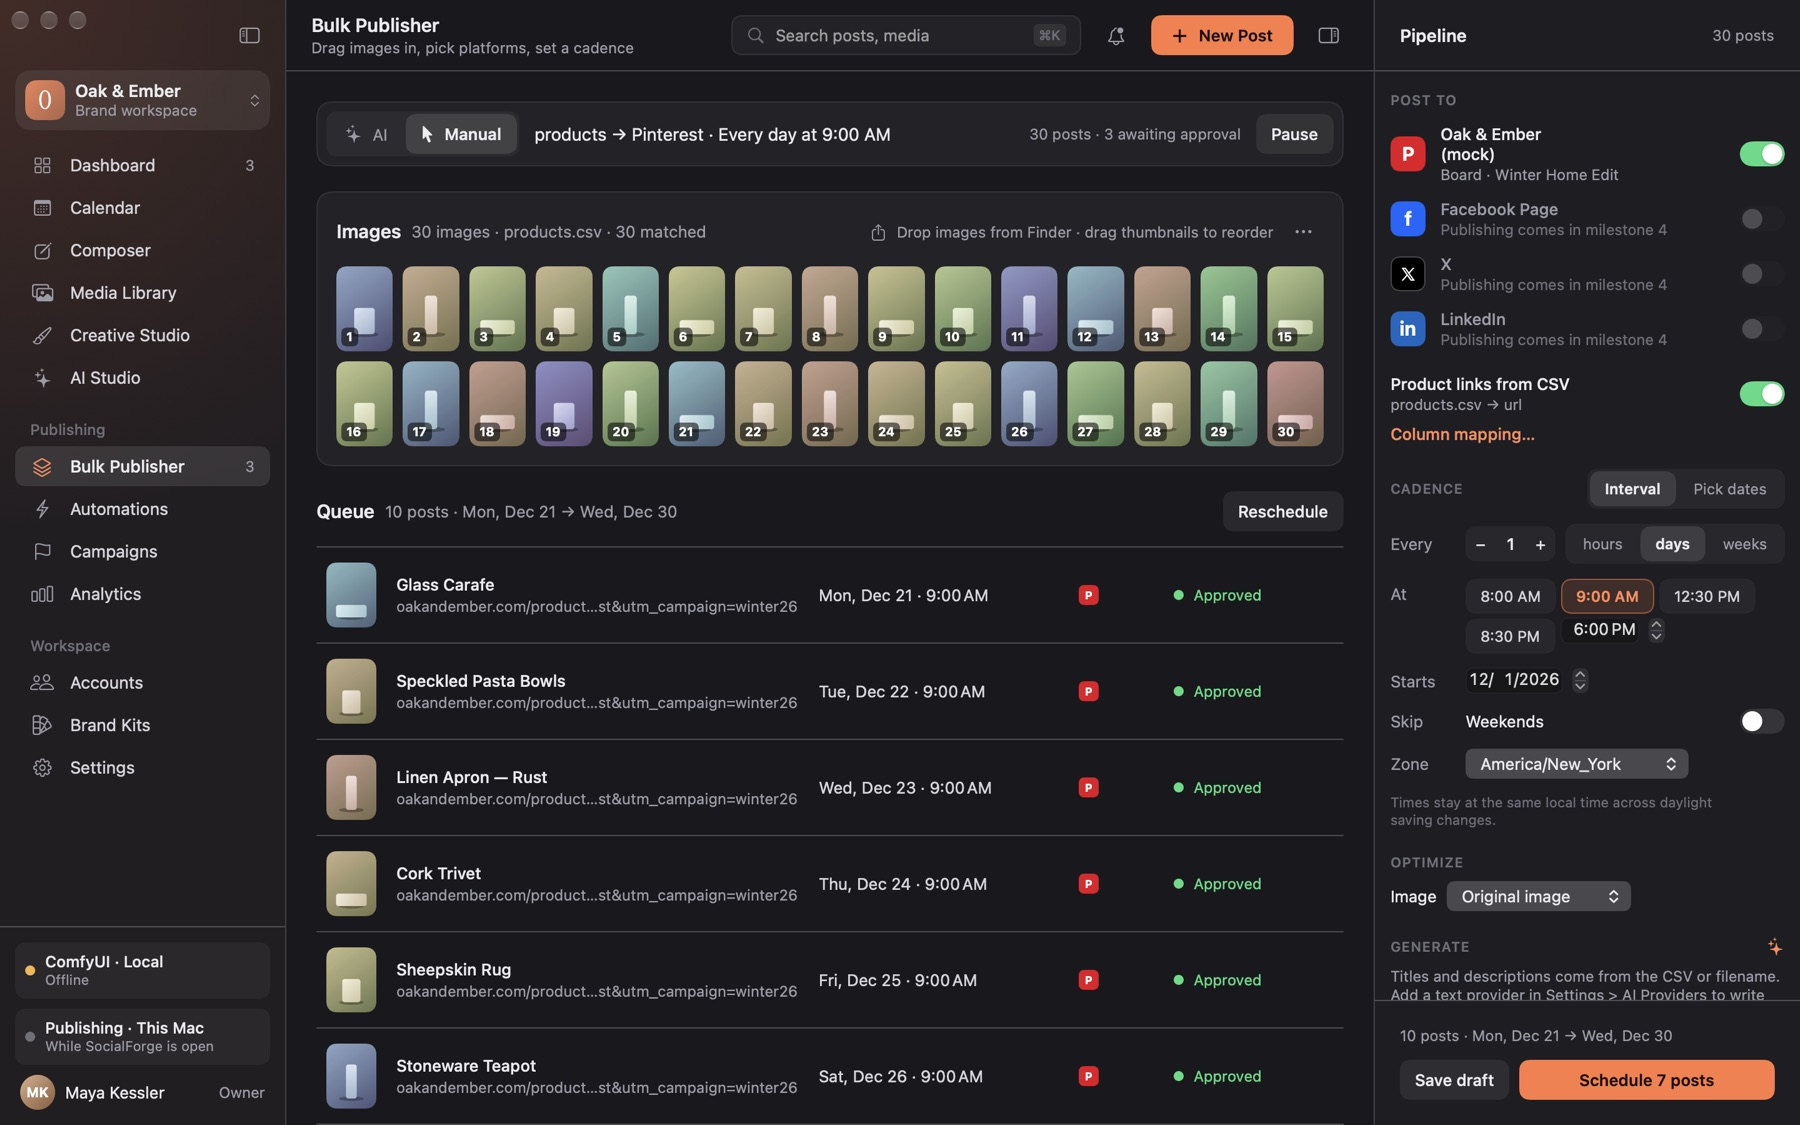
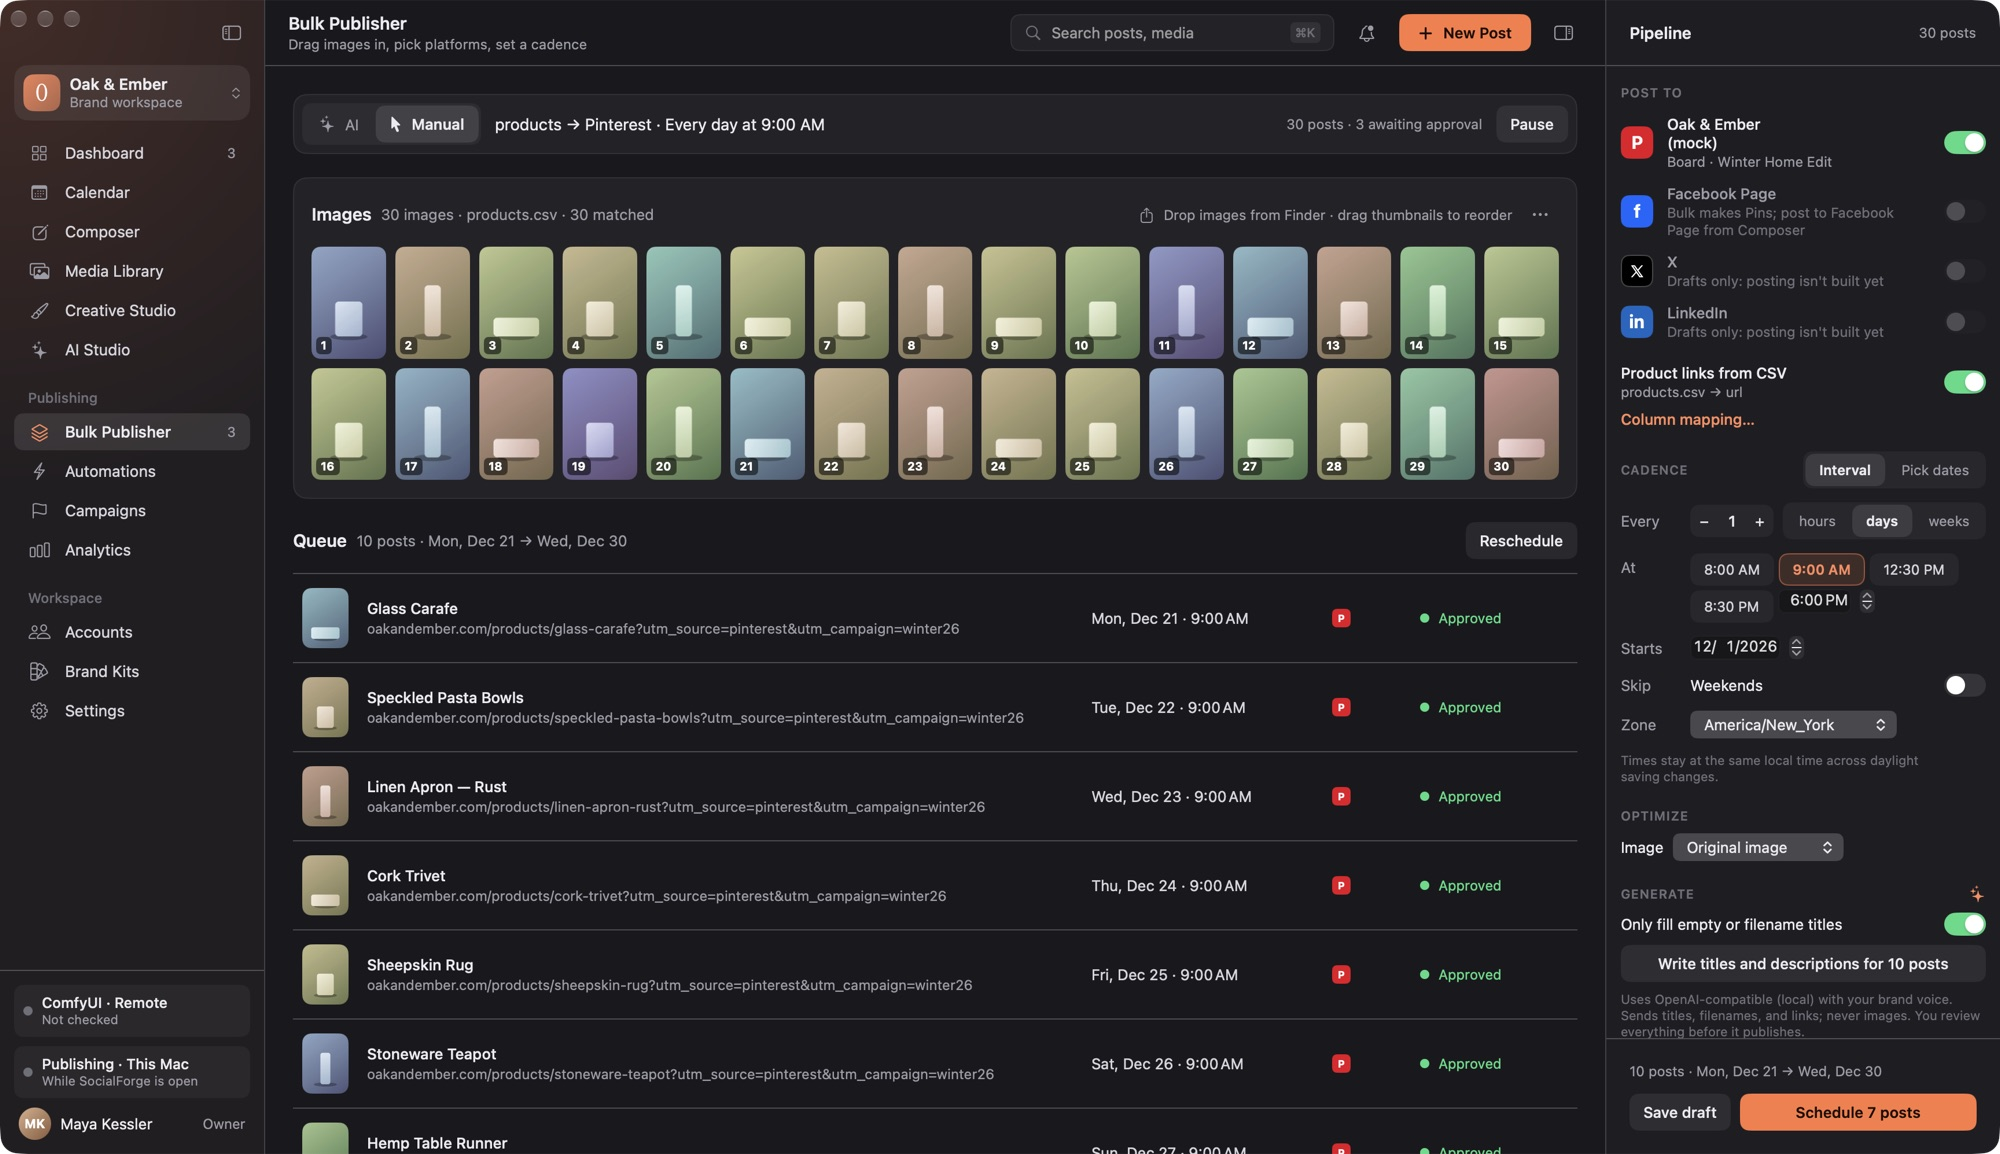
SocialForge 0.3.0

diff --git a/index.html b/index.html
@@ -4,7 +4,7 @@
 <meta charset="utf-8">
 <meta name="viewport" content="width=device-width, initial-scale=1">
 <title>SocialForge</title>
-<meta name="description" content="A native Mac studio that turns a folder of product photos and a CSV into a month of on-brand, scheduled Pins.">
+<meta name="description" content="A native Mac studio that turns product photos, clips, and a CSV into on-brand Pins, Reels, and Shorts, with your own ComfyUI for images, video, and music.">
 <link rel="icon" href="assets/icon.png">
 <link rel="preconnect" href="https://fonts.googleapis.com">
 <link href="https://fonts.googleapis.com/css2?family=Instrument+Serif:ital@0;1&display=swap" rel="stylesheet">
@@ -107,6 +107,12 @@ h2 { font-size: clamp(36px, 4.6vw, 56px); line-height: 1; letter-spacing: -.015e
 footer { padding: 40px 0 60px; color: var(--text2); font-size: 14px; display: flex; gap: 18px; flex-wrap: wrap; }
 .spark { display: inline-block; animation: twinkle 2.4s ease-in-out infinite; }
 @keyframes twinkle { 50% { transform: rotate(18deg) scale(1.15); } }
+.signin { position: fixed; left: 50%; bottom: 24px; transform: translateX(-50%); z-index: 10; width: min(560px, calc(100% - 32px));
+  background: var(--panel); color: var(--text); border: 1px solid var(--stroke); border-radius: 14px; padding: 18px 20px;
+  box-shadow: 0 20px 60px rgba(0,0,0,.4); display: none; }
+.signin h3 { margin: 0 0 6px; font-size: 16px; }
+.signin p { margin: 0 0 12px; color: var(--text2); font-size: 14px; }
+.signin.show { display: block; }
 @media (max-width: 860px) {
   .hero, .gallery, .honest, .install { grid-template-columns: 1fr; }
   .steps, .features { grid-template-columns: 1fr 1fr; }
@@ -134,9 +140,9 @@ footer { padding: 40px 0 60px; color: var(--text2); font-size: 14px; display: fl
 
   <header class="hero">
     <div>
-      <span class="eyebrow"><b>●</b> Native for macOS 26 · free and open source</span>
-      <h1 class="serif">A month of Pins,<br>forged in <em>one sitting</em>.</h1>
-      <p class="lede">Drop a folder of product photos and a CSV of links. SocialForge matches them, dresses each one in your brand template with real, editable type, plans the calendar, and publishes on schedule. You approve everything first.</p>
+      <span class="eyebrow"><b>●</b> Native for macOS 26 · free and open source · version 0.3</span>
+      <h1 class="serif">Pins, Reels, and Shorts,<br>forged in <em>one sitting</em>.</h1>
+      <p class="lede">Drop in product photos, clips, music, and a CSV of links. SocialForge dresses every image and video in your brand template with real, editable type, makes backgrounds, clips, and songs with your own ComfyUI, plans the calendar, and posts from your Mac. You approve everything first.</p>
       <div class="ctas">
         <a class="btn primary" href="https://github.com/rmclain/socialforge/releases/latest">Download for Mac <span class="spark">✦</span></a>
         <a class="btn ghost" href="https://github.com/rmclain/socialforge">View the code</a>
@@ -155,22 +161,25 @@ footer { padding: 40px 0 60px; color: var(--text2); font-size: 14px; display: fl
     <h2 class="serif">Folder in. Calendar out.</h2>
     <p class="sub">Never fill in sixty post forms again.</p>
     <div class="steps">
-      <div class="step"><div class="n">1</div><h3>Drop it all in</h3><p>Images and a CSV. Files are copied in; your originals are never touched. Ambiguous matches get flagged, never guessed.</p></div>
-      <div class="step"><div class="n">2</div><h3>Brand it</h3><p>Pick a template. Your colors, fonts, and logo snap in; headlines and prices stay real text you can edit.</p></div>
+      <div class="step"><div class="n">1</div><h3>Drop it all in</h3><p>Photos, clips, music, and a CSV. Files are copied in; your originals are never touched. Ambiguous matches get flagged, never guessed.</p></div>
+      <div class="step"><div class="n">2</div><h3>Brand it</h3><p>Pick a template. Your colors, fonts, and logo snap in; headlines and prices stay real text, on a still or over a video.</p></div>
       <div class="step"><div class="n">3</div><h3>Plan it</h3><p>One a day at 9, weekdays only, every four hours, or hand-picked dates. Daylight saving can't move your 9 AM.</p></div>
-      <div class="step"><div class="n">4</div><h3>Approve it</h3><p>Nothing publishes until you say so. Then your Mac does the posting, with retries and a receipt for every Pin.</p></div>
+      <div class="step"><div class="n">4</div><h3>Approve it</h3><p>Nothing publishes until you say so. Then your Mac posts, with retries and a receipt for every post. For TikTok and YouTube you get a ready-to-upload video.</p></div>
     </div>
   </section>
 
   <section id="tour">
     <h2 class="serif">Take the tour</h2>
     <p class="sub">Warm dark mode, crisp light mode, and a sidebar that knows where everything lives.</p>
-    <div class="shot"><img src="assets/bulk-dark.jpg" alt="Bulk Publisher: thirty images matched to a CSV, a queue of Pins, and the cadence panel" loading="lazy"></div>
+    <div class="shot"><img src="assets/studio-video-dark.jpg" alt="Creative Studio editing a 12-second TikTok video: layers, a product clip, a music track, a timeline, and which platforms the video fits" loading="lazy"></div>
+    <p class="fine">Creative Studio, video edition: a looping product clip, a music track that fades out, a headline that appears at two seconds, and a check against every platform's video rules. Export Video writes an MP4 with real fonts.</p>
     <div class="gallery" style="margin-top:20px">
-      <figure><div class="shot"><img src="assets/studio-dark.jpg" alt="Creative Studio with layers, a live headline, and smart resize" loading="lazy"></div><figcaption>Creative Studio: layers, real fonts, and every platform size from one design.</figcaption></figure>
-      <figure><div class="shot"><img src="assets/calendar-dark.jpg" alt="Calendar month view with a Pin on every day" loading="lazy"></div><figcaption>The calendar: drag a Pin to another day; its time stays put.</figcaption></figure>
+      <figure><div class="shot"><img src="assets/ai-video-crop.jpg" alt="AI Studio in Video mode with a prompt, workflow, aspect, and length" loading="lazy"></div><figcaption>AI Studio makes clips with your ComfyUI: pick the aspect and length, then drop the result straight onto a design.</figcaption></figure>
+      <figure><div class="shot"><img src="assets/ai-music-crop.jpg" alt="AI Studio in Music mode with a style line and lyrics" loading="lazy"></div><figcaption>Music mode writes a song from a style line and your lyrics, ready to sit under a video.</figcaption></figure>
+      <figure><div class="shot"><img src="assets/bulk-dark.jpg" alt="Bulk Publisher: images matched to a CSV, a queue of Pins, and the cadence panel" loading="lazy"></div><figcaption>Bulk Publisher: thirty photos and a CSV become a month of scheduled Pins.</figcaption></figure>
+      <figure><div class="shot"><img src="assets/settings-publishing-dark.jpg" alt="Settings, Publishing: every platform with its status and video limits" loading="lazy"></div><figcaption>Every platform, with an honest status and its video rules.</figcaption></figure>
+      <figure><div class="shot"><img src="assets/calendar-dark.jpg" alt="Calendar month view with a Pin on every day" loading="lazy"></div><figcaption>The calendar: drag a post to another day; its time stays put.</figcaption></figure>
       <figure><div class="shot"><img src="assets/brandKits-dark.jpg" alt="Brand kit with palette, fonts, voice, and templates" loading="lazy"></div><figcaption>Brand kits drive every template. Change a color once; everything follows.</figcaption></figure>
-      <figure><div class="shot"><img src="assets/home-light.jpg" alt="Dashboard in light mode with up-next Pins and approvals" loading="lazy"></div><figcaption>The dashboard: what's next, what needs you, what happened.</figcaption></figure>
     </div>
   </section>
 
@@ -178,12 +187,38 @@ footer { padding: 40px 0 60px; color: var(--text2); font-size: 14px; display: fl
     <h2 class="serif">Everything in the box</h2>
     <p class="sub">Built for people who post a lot and want it to look like them.</p>
     <div class="features">
-      <div class="feature"><div class="ico">🗂</div><h3>Media Library</h3><p>Folders, HEIC, transparency, collections, duplicate detection by content hash, and resizing for each platform without stretching.</p></div>
+      <div class="feature"><div class="ico">🗂</div><h3>Media Library</h3><p>Photos (HEIC and transparency too), video clips, and music. Collections, duplicate detection by content hash, and a player for every clip and track.</p></div>
       <div class="feature"><div class="ico">🎨</div><h3>Brand templates</h3><p>Editorial, Centered, Price card, or your own. Apply one to a hundred photos and get a hundred branded Pins.</p></div>
+      <div class="feature"><div class="ico">🎬</div><h3>Video studio</h3><p>Drop clips and music on the canvas, time each layer, and export an MP4 (H.264 and AAC) sized for TikTok, Reels, Shorts, Pinterest, and more.</p></div>
+      <div class="feature"><div class="ico">✨</div><h3>AI Studio</h3><p>Images, clips, and songs from your own ComfyUI, plus titles and descriptions from OpenAI, Anthropic, Gemini, or a local model. Type stays real text unless you ask the model for it.</p></div>
+      <div class="feature"><div class="ico">🧩</div><h3>Starter workflows</h3><p>Five ComfyUI workflows ship in the app: background image, image with words in it, vertical and square video, and music. <a href="https://github.com/rmclain/socialforge/tree/main/comfyui/workflows">Download them</a> for your own ComfyUI.</p></div>
+      <div class="feature"><div class="ico">📮</div><h3>Publishing</h3><p>Your Mac posts to Pinterest, Facebook Pages, Instagram, and Threads with your own developer apps, with retries and no double posts after a timeout.</p></div>
+      <div class="feature"><div class="ico">✍</div><h3>Composer</h3><p>Write once and get a version per platform, with its own preview and limits, including video rules.</p></div>
       <div class="feature"><div class="ico">✂</div><h3>On-device magic</h3><p>Remove backgrounds, smart-crop around the subject, upscale, and tone to your brand color. Your photos never leave the Mac.</p></div>
-      <div class="feature"><div class="ico">✍</div><h3>Composer</h3><p>Write once and get Pinterest, Facebook, X, and LinkedIn versions with their own previews and limits.</p></div>
-      <div class="feature"><div class="ico">✨</div><h3>AI that knows its place</h3><p>Bring your own OpenAI, Anthropic, Gemini, or local model for titles. Use ComfyUI for backgrounds. Type is never left to the model.</p></div>
       <div class="feature"><div class="ico">⚡</div><h3>Automations</h3><p>Watch a folder, resize, brand, write, and queue. Every run stops for your approval.</p></div>
+    </div>
+  </section>
+
+  <section id="platforms">
+    <h2 class="serif">Where it posts</h2>
+    <p class="sub">Posting goes through developer apps you create on each platform, so your keys stay in your Keychain.</p>
+    <div class="honest">
+      <div class="col">
+        <h3>Posts from your Mac</h3>
+        <ul>
+          <li><b>Pinterest</b>: image Pins, scheduled in bulk</li>
+          <li><b>Facebook Pages</b>: text, photos, and Reels</li>
+          <li><b>Instagram</b>: Reels upload straight from your Mac; photos need a public storage bucket (Cloudflare R2 or any S3-compatible one)</li>
+          <li><b>Threads</b>: text posts; photos and video use the same storage bucket</li>
+        </ul>
+      </div>
+      <div class="col">
+        <h3>Export or drafts</h3>
+        <ul>
+          <li><b>TikTok</b> and <b>YouTube Shorts</b>: SocialForge makes the video at the right size and length; you upload it. Their APIs keep posts private until an app passes their audit.</li>
+          <li><b>X</b> and <b>LinkedIn</b>: saved as drafts for now</li>
+        </ul>
+      </div>
     </div>
   </section>
 
@@ -194,7 +229,8 @@ footer { padding: 40px 0 60px; color: var(--text2); font-size: 14px; display: fl
         <h3>Works today</h3>
         <ul>
           <li>The whole bulk Pinterest flow, end to end, with a built-in mock account to try it safely</li>
-          <li>Publishing from your Mac, with retries and no double posts after a timeout</li>
+          <li>Video designs with clips, music, and timed layers, exported as MP4 and checked by automated tests</li>
+          <li>AI Studio's image, image-with-text, video, and music starter workflows, run end to end on a real ComfyUI server</li>
           <li>Brand templates, smart resize, analytics from your real data, campaigns with UTM links</li>
           <li>Automatic updates from these GitHub releases</li>
         </ul>
@@ -202,10 +238,10 @@ footer { padding: 40px 0 60px; color: var(--text2); font-size: 14px; display: fl
       <div class="col">
         <h3>Still on the workbench</h3>
         <ul>
-          <li>Live Pinterest needs your own Pinterest developer app, and hasn't been verified against the live API yet</li>
-          <li>Facebook, LinkedIn, and X save as drafts for now</li>
-          <li>A Mac can't post while it's asleep: due Pins go out when it wakes</li>
-          <li>AI and ComfyUI connections are built to their docs; bring your own key and test it</li>
+          <li>Live posting to Pinterest, Facebook, Instagram, and Threads is built to their docs and tested against stand-ins, but hasn't made its first real post yet</li>
+          <li>TikTok and YouTube are export-only, and X and LinkedIn are drafts</li>
+          <li>A Mac can't post while it's asleep: due posts go out when it wakes</li>
+          <li>The cloud AI connections are built to their docs; bring your own key and test it</li>
         </ul>
       </div>
     </div>
@@ -220,6 +256,7 @@ footer { padding: 40px 0 60px; color: var(--text2); font-size: 14px; display: fl
           <li>Unzip it and drag SocialForge to Applications.</li>
           <li>Open it. Future versions arrive on their own.</li>
         </ol>
+        <p class="fine">For AI: point SocialForge at your ComfyUI (Settings › ComfyUI) and add the starter workflows from AI Studio › Workflow. For posting: <a href="https://github.com/rmclain/socialforge/blob/main/docs/META_SETUP.md">set up Facebook, Instagram, and Threads</a>.</p>
         <p class="fine">Requires macOS 26 or later. One download runs on Apple silicon and Intel.</p>
       </div>
       <a class="btn primary" href="https://github.com/rmclain/socialforge/releases/latest">Download <span class="spark">✦</span></a>
@@ -233,5 +270,28 @@ footer { padding: 40px 0 60px; color: var(--text2); font-size: 14px; display: fl
     <span>Instrument Serif by The Instrument Serif Project (SIL OFL)</span>
   </footer>
 </div>
+<div class="signin" id="signin" role="status">
+  <h3 id="signin-title">Signed in to Threads</h3>
+  <p id="signin-text">Copy this page's address and paste it into SocialForge › Settings › Publishing › Finish connecting. The code in it works once and expires in minutes.</p>
+  <button class="btn primary" id="signin-copy" type="button">Copy address</button>
+</div>
+<script>
+// Threads sends people back here after they sign in (SocialForge's redirect). Help them hand the address to the app.
+(function () {
+  var q = new URLSearchParams(location.search);
+  if (!q.has("code") && !q.has("error")) return;
+  var box = document.getElementById("signin");
+  if (q.has("error")) {
+    document.getElementById("signin-title").textContent = "Threads sign-in was not completed";
+    document.getElementById("signin-text").textContent = q.get("error_description") || "Try Connect Threads again in SocialForge.";
+    document.getElementById("signin-copy").style.display = "none";
+  }
+  document.getElementById("signin-copy").addEventListener("click", function () {
+    var b = this;
+    navigator.clipboard.writeText(location.href).then(function () { b.textContent = "Copied. Paste it into SocialForge"; });
+  });
+  box.className += " show";
+})();
+</script>
 </body>
 </html>
